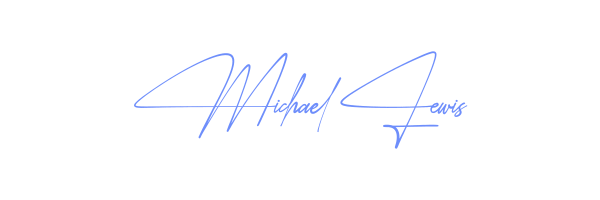
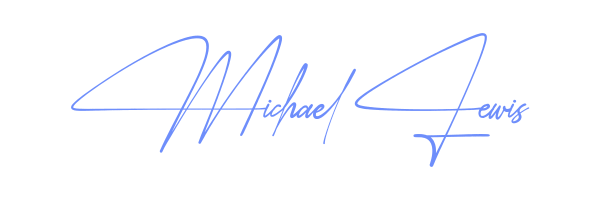
uudet signaturet ja karusellitiheys alas

diff --git a/generate-signatures.js b/generate-signatures.js
@@ -53,7 +53,7 @@ function createSignature(name, fontFamily, color) {
   ctx.fillRect(0, 0, canvas.width, canvas.height);
 
   // Käytä samaa fonttikokoa kuin API-reitissä
-  ctx.font = `80px ${fontFamily}`; // Suurempi fonttikoko
+  ctx.font = `110px ${fontFamily}`; // Suurempi fonttikoko
   ctx.fillStyle = color;
   ctx.textAlign = "center";
 
